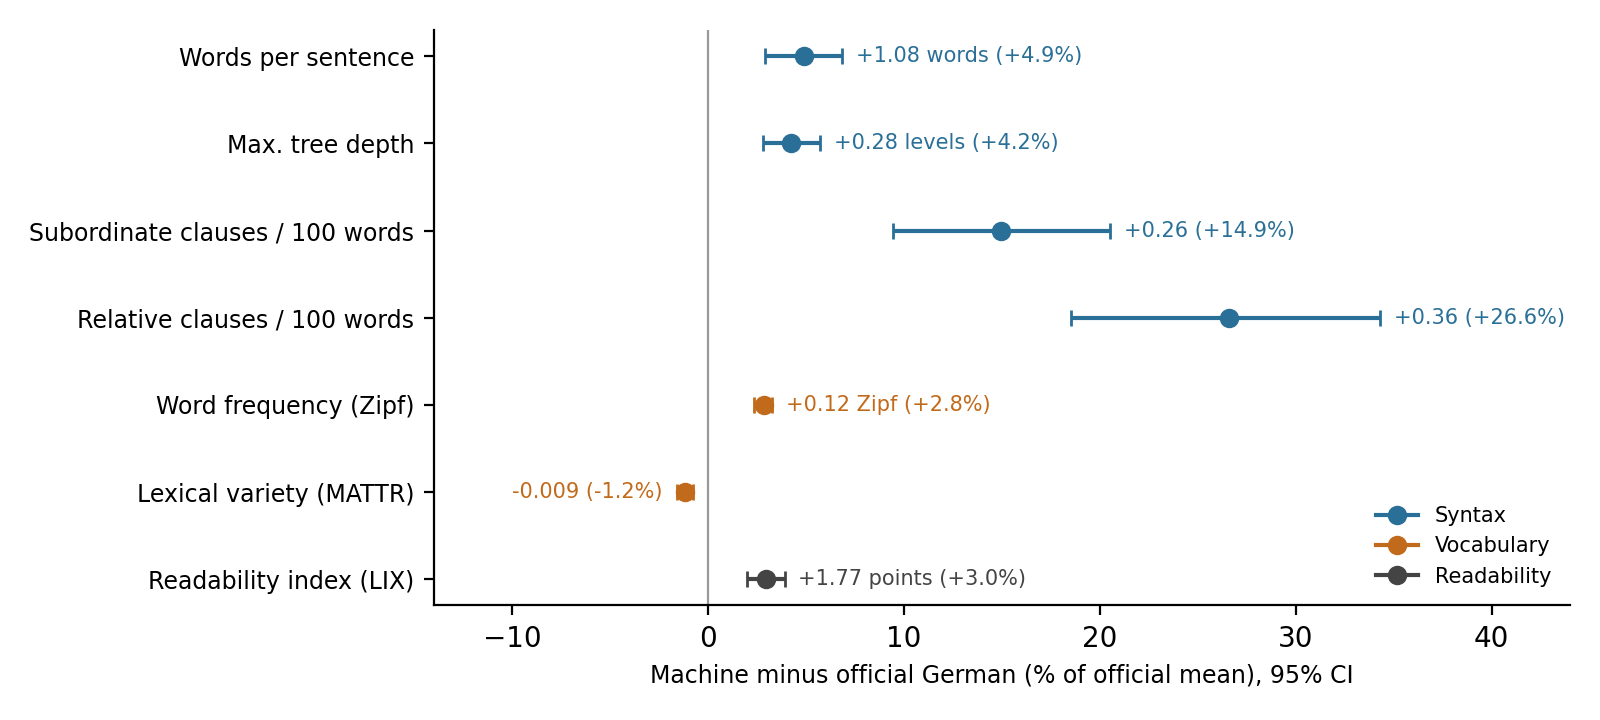
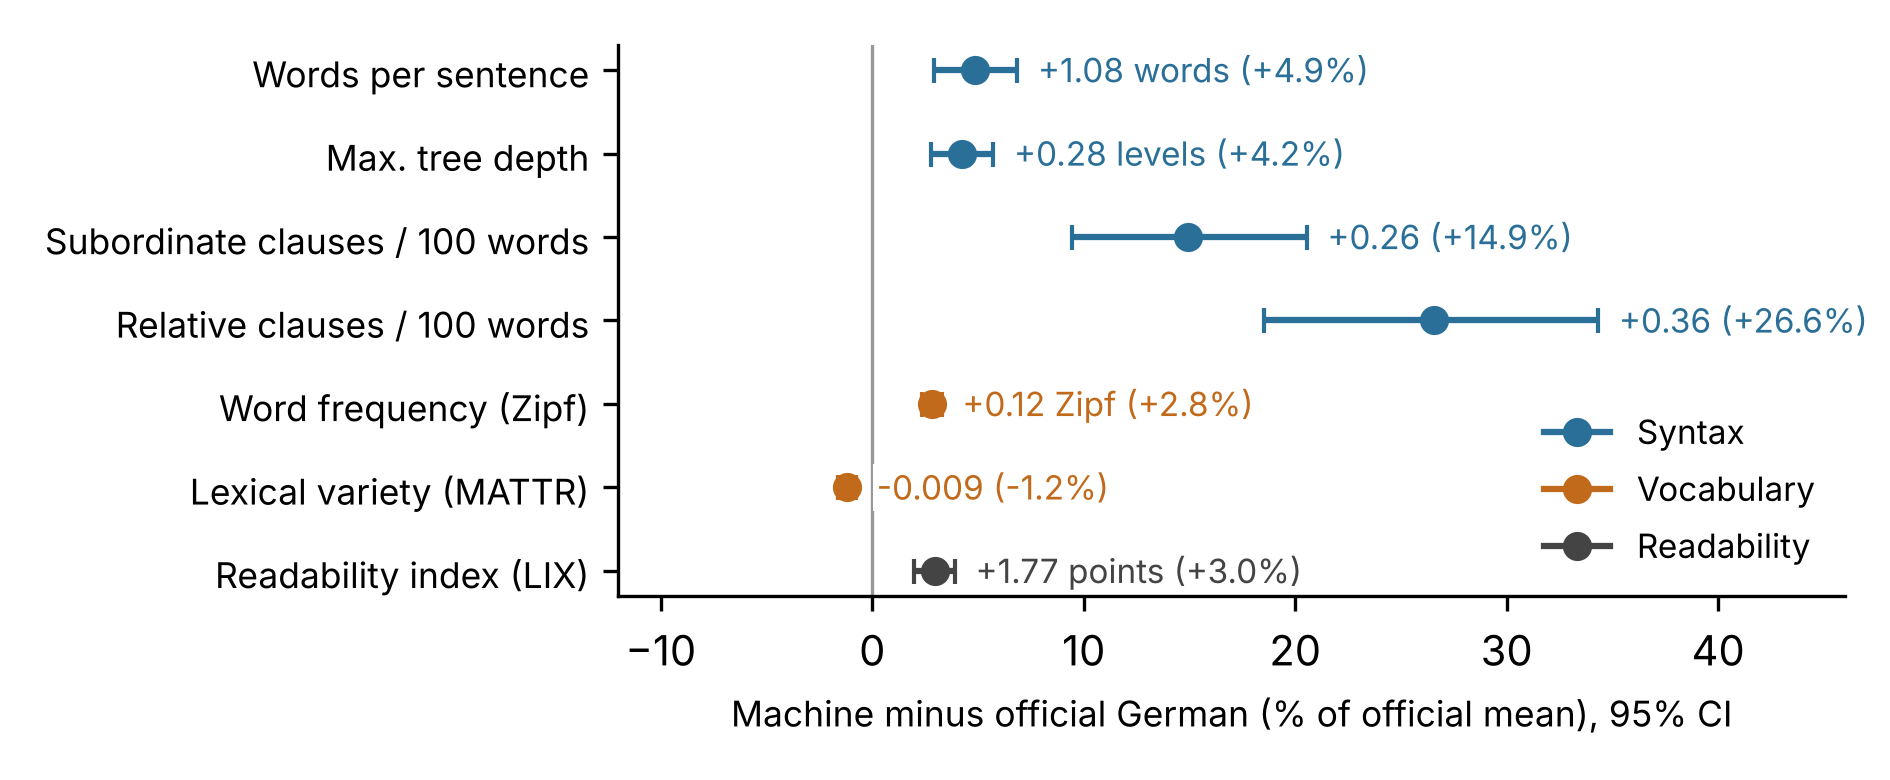
Author-adjusted mixed model and Bonferroni check; Figure 2 at print size

diff --git a/scripts/author_robustness.py b/scripts/author_robustness.py
@@ -1,0 +1,89 @@
+"""RQ1 robustness: does author dependence change the paired results?
+
+Several motions in the sample were submitted by the same parliamentarian, so
+document pairs are not fully independent. For each of the seven reported
+measures we estimate the mean machine-minus-official difference in two ways
+that account for this:
+  1. a linear mixed-effects model, difference ~ 1 + (1 | author), fitted with
+     statsmodels MixedLM (REML); the fixed intercept is the author-adjusted
+     mean difference with its 95% Wald interval;
+  2. a cluster bootstrap that resamples authors (2,000 resamples, seed 47).
+The mixed-model intervals are also reported with a Bonferroni correction for
+the seven measures (alpha = 0.05 / 7).
+
+Run from the repository root (needs statsmodels):
+    python scripts/author_robustness.py
+Output: results/author_robustness.md
+"""
+from __future__ import annotations
+
+import ast
+import csv
+import json
+import random
+import warnings
+from collections import Counter, defaultdict
+from pathlib import Path
+from statistics import mean
+
+import numpy as np
+import statsmodels.formula.api as smf
+
+PROC = Path("data/processed")
+MEASURES = [
+    ("mean_sentence_words", "Words per sentence"),
+    ("mean_sentence_tree_depth", "Max. tree depth"),
+    ("subordinators_per_100_words", "Subordinate clauses / 100 words"),
+    ("relative_markers_per_100_words", "Relative clauses / 100 words"),
+    ("mean_content_word_zipf", "Word frequency (Zipf)"),
+    ("mattr_50", "Lexical variety (MATTR)"),
+    ("lix", "Readability index (LIX)"),
+]
+SEED, RESAMPLES = 47, 2000
+
+
+def as_dict(v):
+    return v if isinstance(v, dict) else ast.literal_eval(v)
+
+
+def main() -> None:
+    with open(PROC / "motion_author_language.csv", encoding="utf-8") as f:
+        author = {int(r["document_id"]): r["member_id"] for r in csv.DictReader(f)}
+    res = json.loads((PROC / "complexity_fr_author_results.json").read_text(encoding="utf-8"))
+    recs = [(int(r["document_id"]), as_dict(r["official"]), as_dict(r["generated"])) for r in res["records"]]
+    authors = Counter(author[d] for d, _, _ in recs)
+
+    lines = ["# RQ1 robustness to author dependence", "",
+             f"Pairs: {len(recs)}; distinct authors: {len(authors)}; authors with more than one text: "
+             f"{sum(n > 1 for n in authors.values())}; most texts by one author: {max(authors.values())}.", "",
+             "| Measure | Mean difference (document bootstrap, reported) | Mixed model: author-adjusted difference [95% CI] | "
+             "Author cluster bootstrap [95% CI] | Mixed model, Bonferroni (7 measures) |",
+             "|---|---|---|---|---|"]
+    for key, label in MEASURES:
+        rows = [(author[d], g[key] - o[key]) for d, o, g in recs
+                if o.get(key) is not None and g.get(key) is not None]
+        lo_d, hi_d = res["summary"][key]["paired_bootstrap_ci95"]
+        data = {"diff": [x for _, x in rows], "author": [a for a, _ in rows]}
+        with warnings.catch_warnings():
+            warnings.simplefilter("ignore")  # boundary/convergence notes when author variance is ~0
+            fit = smf.mixedlm("diff ~ 1", data, groups=data["author"]).fit(reml=True)
+        est = fit.params["Intercept"]
+        lo_m, hi_m = fit.conf_int().loc["Intercept"]
+        lo_b, hi_b = fit.conf_int(alpha=0.05 / len(MEASURES)).loc["Intercept"]
+        by_author = defaultdict(list)
+        for a, x in rows:
+            by_author[a].append(x)
+        clusters = list(by_author.values())
+        rng = random.Random(SEED)
+        boots = sorted(mean(x for c in rng.choices(clusters, k=len(clusters)) for x in c) for _ in range(RESAMPLES))
+        lo_c, hi_c = boots[int(0.025 * RESAMPLES) - 1], boots[int(0.975 * RESAMPLES)]
+        lines.append(f"| {label} | {mean(x for _, x in rows):+.3f} [{lo_d:+.3f}, {hi_d:+.3f}] | "
+                     f"{est:+.3f} [{lo_m:+.3f}, {hi_m:+.3f}] | {mean(x for _, x in rows):+.3f} [{lo_c:+.3f}, {hi_c:+.3f}] | "
+                     f"[{lo_b:+.3f}, {hi_b:+.3f}] |")
+    Path("results").mkdir(exist_ok=True)
+    Path("results/author_robustness.md").write_text("\n".join(lines) + "\n", encoding="utf-8")
+    print("\n".join(lines))
+
+
+if __name__ == "__main__":
+    main()

diff --git a/scripts/report_rq1.py b/scripts/report_rq1.py
@@ -84,7 +84,7 @@ def main() -> None:
     print("\n".join(lines))
 
     # Figure 2
-    fig, ax = plt.subplots(figsize=(8, 3.6))
+    fig, ax = plt.subplots(figsize=(6.3, 2.6))  # printed at text width, so 1 pt = 1 pt
     for i, (label, group, diff, pct, plo, phi) in enumerate(reversed(rows)):
         c = COLOURS[group]
         ax.errorbar(pct, i, xerr=[[pct - plo], [phi - pct]], fmt="o", color=c, capsize=3, ms=6)
@@ -93,21 +93,21 @@ def main() -> None:
         unit = {"Words per sentence": " words", "Max. tree depth": " levels",
                 "Word frequency (Zipf)": " Zipf", "Readability index (LIX)": " points"}.get(label, "")
         txt = f"{d:+.2f}{unit} ({pct:+.1f}%)" if abs(d) >= 0.01 else f"{d:+.3f} ({pct:+.1f}%)"
-        ax.annotate(txt, (phi if pct >= 0 else plo, i), xytext=(5 if pct >= 0 else -5, 0),
-                    textcoords="offset points", va="center", ha="left" if pct >= 0 else "right",
-                    fontsize=7.5, color=c)
+        ax.annotate(txt, (phi, i), xytext=(5, 0), textcoords="offset points", va="center",
+                    ha="left", fontsize=8, color=c,
+                    bbox=dict(boxstyle="square,pad=0.1", fc="white", ec="none"))
     ax.set_yticks(range(len(rows)), [r[0] for r in reversed(rows)], fontsize=8.5)
     ax.axvline(0, color="#999999", lw=0.8)
-    ax.set_xlim(-14, 44)
+    ax.set_xlim(-12, 46)
     ax.set_xlabel("Machine minus official German (% of official mean), 95% CI", fontsize=8.5)
     for g, c in COLOURS.items():
         ax.plot([], [], "o-", color=c, label=g)
-    ax.legend(loc="lower right", fontsize=7.5, frameon=False)
+    ax.legend(loc="lower right", fontsize=8, frameon=False)
     for s in ("top", "right"):
         ax.spines[s].set_visible(False)
     fig.tight_layout()
     Path("docs/figures").mkdir(parents=True, exist_ok=True)
-    fig.savefig("docs/figures/paired_differences.png", dpi=200)
+    fig.savefig("docs/figures/paired_differences.png", dpi=300)
     print("Saved docs/figures/paired_differences.png")
 
 

diff --git a/docs/report_numbers.md b/docs/report_numbers.md
@@ -18,6 +18,7 @@ data from the Parliament API). Only two inputs are not computed by code:
 | 3 Sample | 260 pairs, 10 per year, seed 48, 30 development texts excluded | `prepare_french_sample.py --check` | console (sample identical: True) |
 | 3 Translation | 259 completed, 1 failure (output limit) | `compare_expanded.py --french` | `docs/french_author_comparison.md` |
 | 4.1 RQ1, Figure 2 | +1.1 words, +0.28 levels, +15%, +27%, +0.12 Zipf (1.3x, 200 of 259), MATTR, LIX +1.8, periods, dependency distance and lexical density n.s. | `compare_expanded.py --french`, `report_rq1.py` | `results/rq1_complexity.md`, `docs/figures/paired_differences.png` |
+| 3 Analysis, 4.1 RQ1 | 102 authors, 60 with several texts; mixed model with author random intercepts and Bonferroni correction: all seven differences non-zero | `author_robustness.py` | `results/author_robustness.md` |
 | 4.2 RQ2 | ß in 193 texts; 10.000 34 vs 3; Swiss forms 32; quotation marks | `swiss_conventions.py --french` | `results/swiss_conventions_counts_french.md` |
 | 4.2 Table 1 | terminology counts; abbreviations 41 of 54 | `terminology_check.py` | `results/terminology_french.md`, `results/terminology_checked_french.csv`, `results/terminology_contexts_french.csv` |
 | 4.2 Screening | length ratios, flags, 10/5/5 reading sample | `screen_translations.py` | `results/screening_french.md` |

diff --git a/results/author_robustness.md b/results/author_robustness.md
@@ -1,0 +1,13 @@
+# RQ1 robustness to author dependence
+
+Pairs: 259; distinct authors: 102; authors with more than one text: 60; most texts by one author: 11.
+
+| Measure | Mean difference (document bootstrap, reported) | Mixed model: author-adjusted difference [95% CI] | Author cluster bootstrap [95% CI] | Mixed model, Bonferroni (7 measures) |
+|---|---|---|---|---|
+| Words per sentence | +1.078 [+0.646, +1.513] | +1.078 [+0.616, +1.540] | +1.078 [+0.681, +1.506] | [+0.444, +1.712] |
+| Max. tree depth | +0.277 [+0.182, +0.373] | +0.277 [+0.172, +0.382] | +0.277 [+0.177, +0.382] | [+0.133, +0.421] |
+| Subordinate clauses / 100 words | +0.264 [+0.166, +0.363] | +0.264 [+0.155, +0.373] | +0.264 [+0.156, +0.369] | [+0.114, +0.413] |
+| Relative clauses / 100 words | +0.355 [+0.247, +0.459] | +0.355 [+0.245, +0.466] | +0.355 [+0.255, +0.459] | [+0.203, +0.507] |
+| Word frequency (Zipf) | +0.118 [+0.098, +0.136] | +0.119 [+0.097, +0.141] | +0.118 [+0.095, +0.143] | [+0.089, +0.149] |
+| Lexical variety (MATTR) | -0.009 [-0.012, -0.006] | -0.009 [-0.012, -0.006] | -0.009 [-0.013, -0.006] | [-0.014, -0.005] |
+| Readability index (LIX) | +1.774 [+1.194, +2.343] | +1.774 [+1.155, +2.393] | +1.774 [+1.194, +2.342] | [+0.924, +2.624] |
